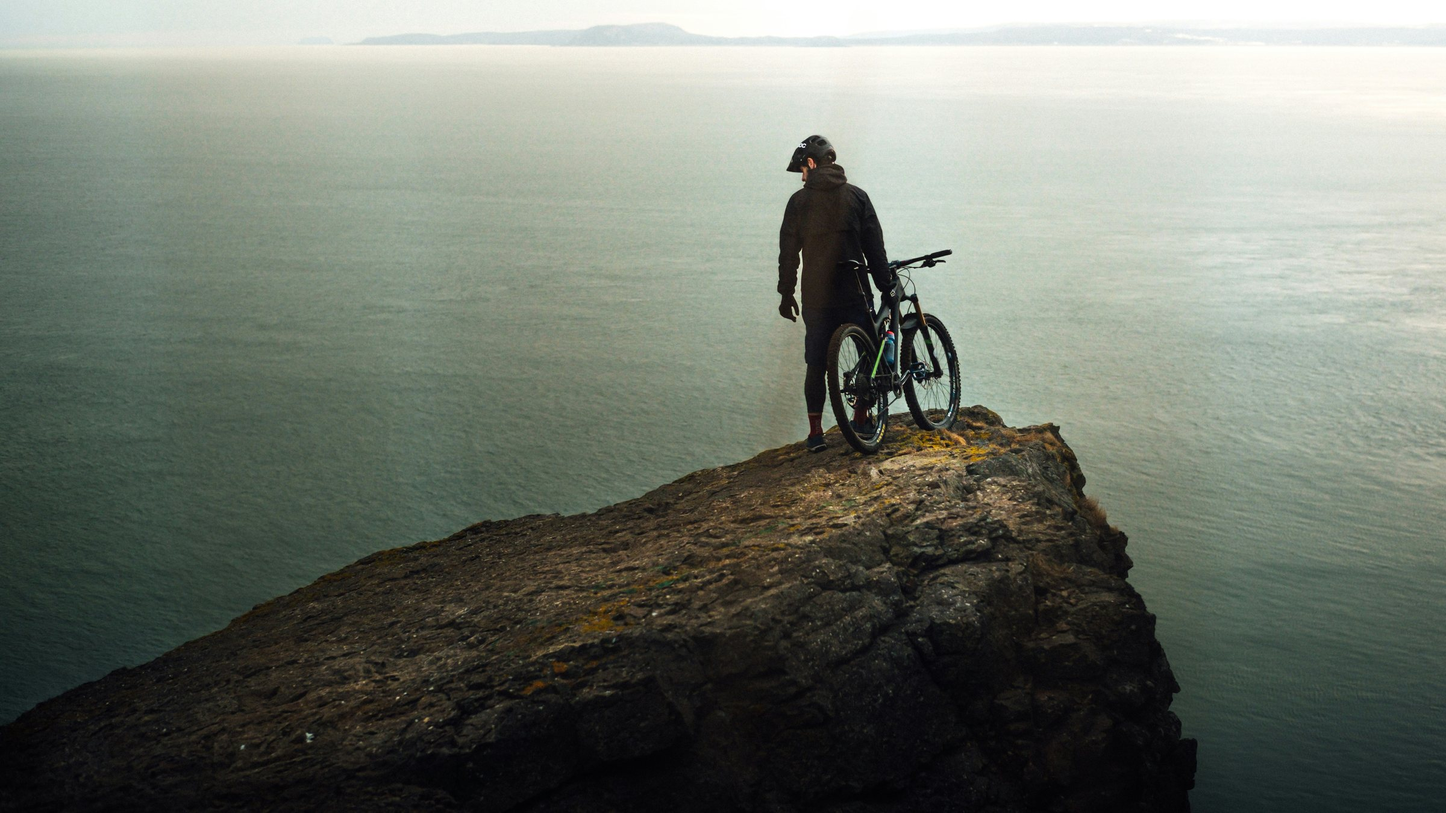
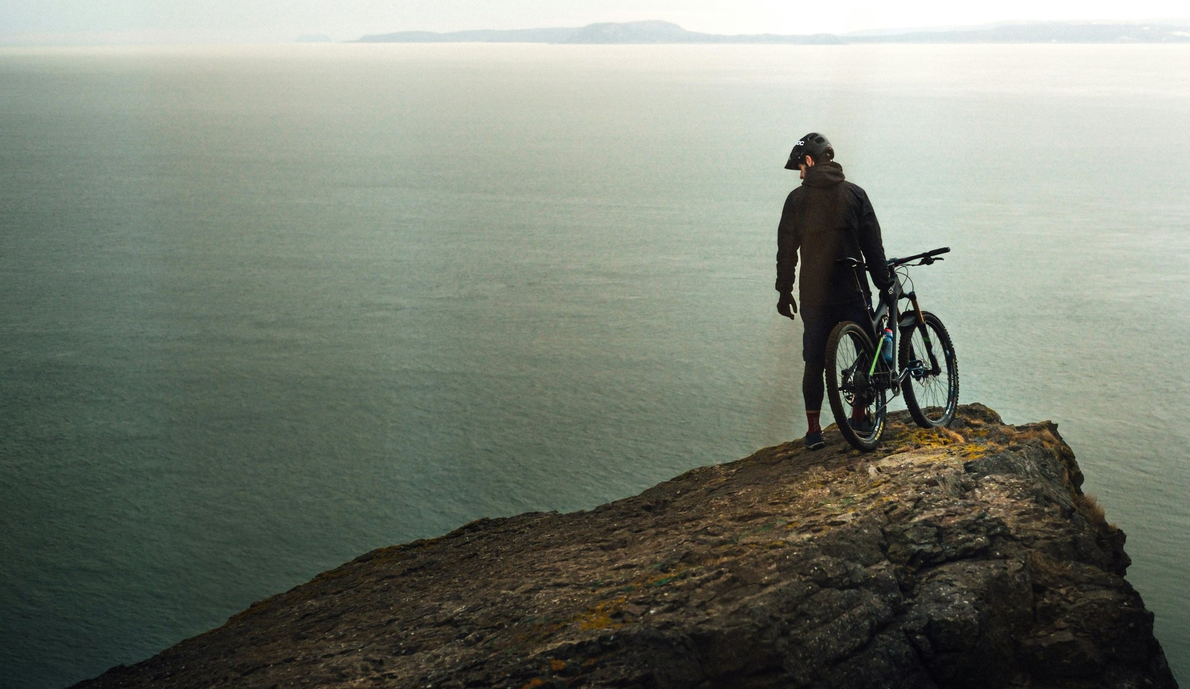
update hero crop and font opacity

diff --git a/app/layout.tsx b/app/layout.tsx
@@ -60,6 +60,9 @@ export default function RootLayout({ children }: LayoutProps<"/">) {
                 border: "1px solid var(--line)",
                 borderRadius: "0",
               },
+              classNames: {
+                description: "!text-[var(--ink)] !opacity-90",
+              },
             }}
           />
         </CartProvider>
